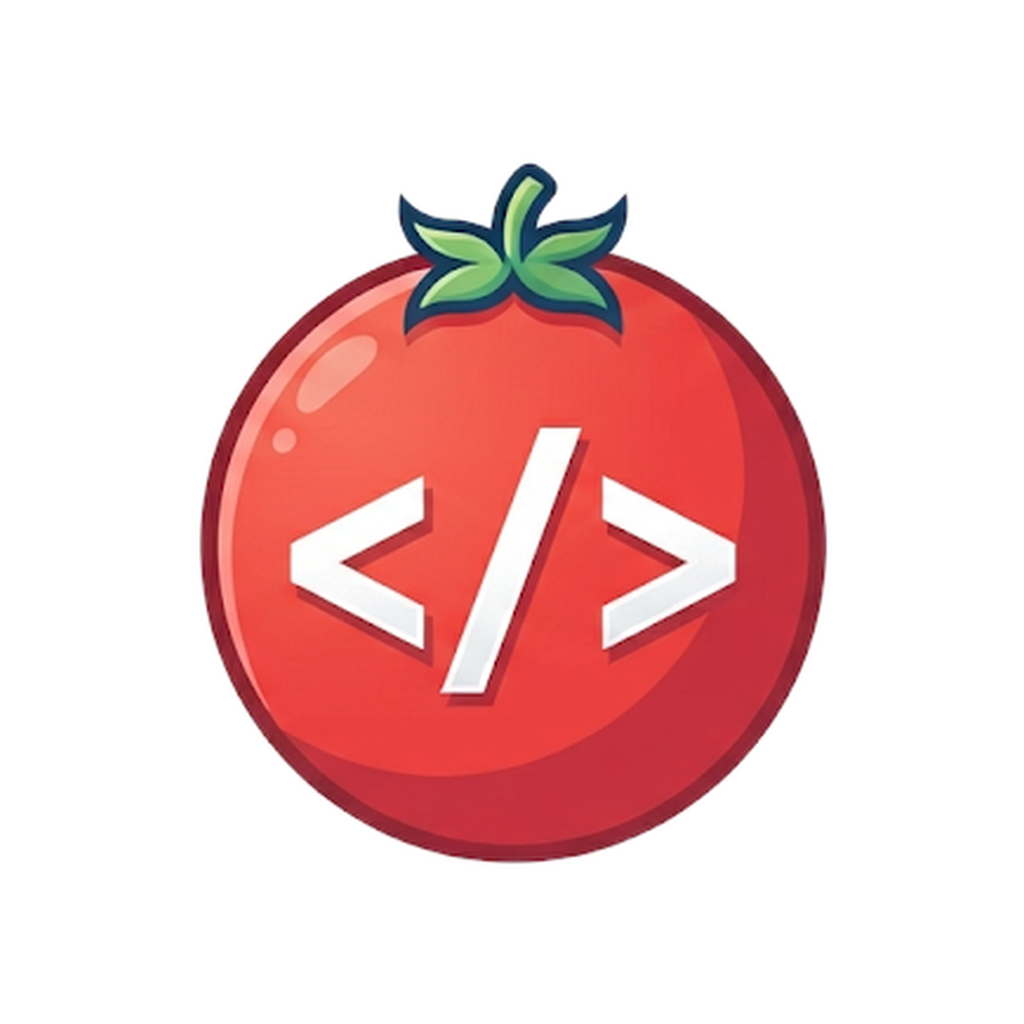
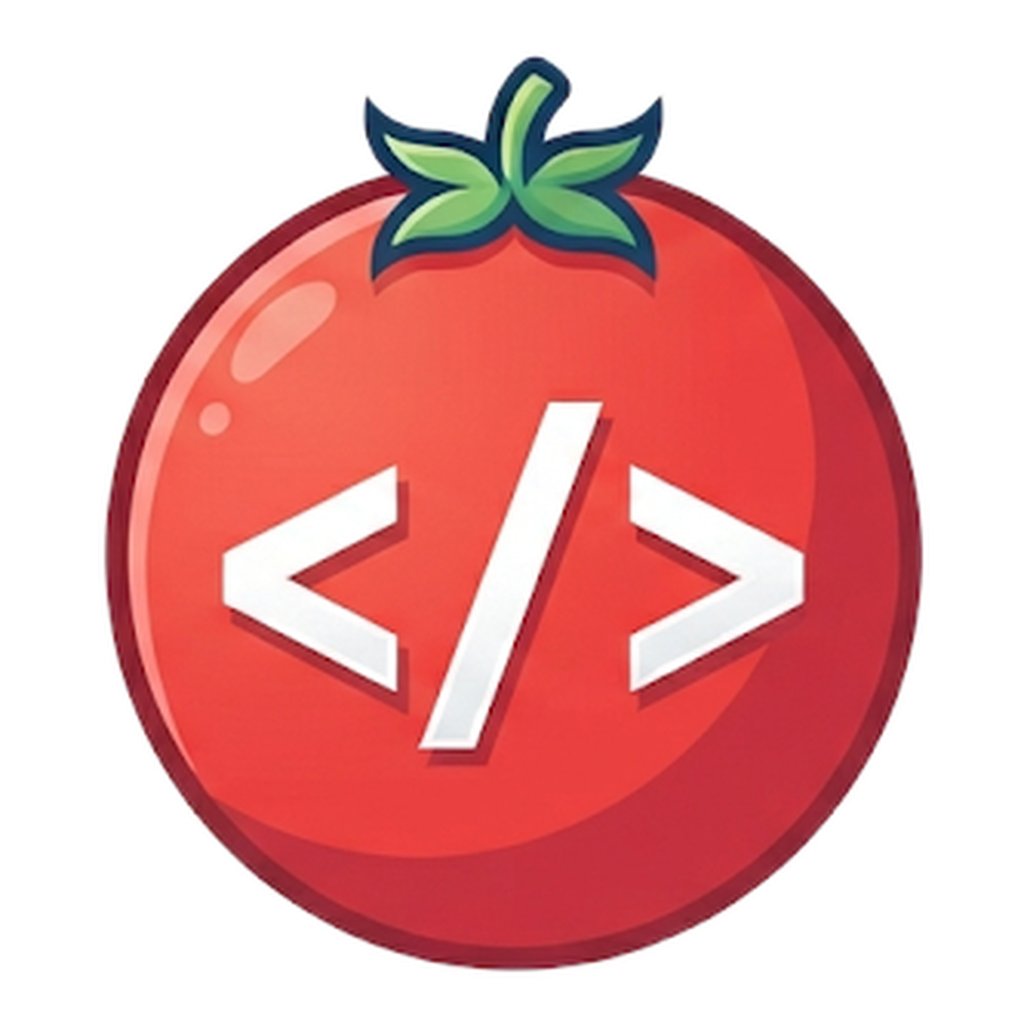
fix(branding): ícone do app enche o quadrado, menos margem branca
Ajustado (Notificações e ícone confirmados funcionando pelo usuário
depois de limpar o cache do Expo Go — o ícone velho ficava em cache
por URL) — pedido: reduzir a borda/margem branca ao redor do tomate.
Aumentado o preenchimento de 72% pra 94% do canvas em icon.png e
favicon.png (a mesma fonte já recortada, só reprocessada com um
fill_ratio maior).

diff --git a/app/(tabs)/settings.tsx b/app/(tabs)/settings.tsx
@@ -5,6 +5,7 @@ import { useSafeAreaInsets } from 'react-native-safe-area-context';
 
 import {
   getNotificationPermissionStatus,
+  isNotificationSupportAvailable,
   requestNotificationPermission,
 } from '../../src/lib/notifications';
 import { NotificationCategory, ThemeOverride, useSettings } from '../../src/lib/settings';
@@ -28,10 +29,12 @@ export default function SettingsScreen() {
   const styles = createStyles(theme);
   const { settings, update } = useSettings();
   const [permissionStatus, setPermissionStatus] = useState<'granted' | 'denied' | 'undetermined' | null>(null);
+  const notificationsSupported = isNotificationSupportAvailable();
 
   useEffect(() => {
+    if (!notificationsSupported) return;
     getNotificationPermissionStatus().then(setPermissionStatus);
-  }, []);
+  }, [notificationsSupported]);
 
   async function handleToggleCategory(key: NotificationCategory, value: boolean) {
     // Só pede a permissão do sistema na hora que a pessoa realmente
@@ -100,52 +103,64 @@ export default function SettingsScreen() {
 
       <Text style={styles.sectionLabel}>Notificações</Text>
       <View style={styles.card}>
-        {permissionStatus === 'denied' && (
+        {!notificationsSupported ? (
           <Text style={styles.warnText}>
-            Permissão de notificação negada pelo sistema. Ative em Ajustes do Android/iOS pra essas opções
-            funcionarem.
+            Notificações (mesmo locais) não funcionam no Android dentro do Expo Go — a partir do SDK 53 a
+            Expo removeu esse suporte de lá; só um build próprio do app (dev build/EAS) habilita isso.
+            Essa seção some assim que o app rodar fora do Expo Go.
           </Text>
-        )}
-        {NOTIFICATION_CATEGORIES.map((cat, i) => (
-          <View key={cat.key}>
-            {i > 0 && <View style={styles.divider} />}
-            <View style={styles.switchRow}>
-              <View style={styles.switchLabel}>
-                <Text style={styles.rowTitle}>{cat.label}</Text>
-                <Text style={styles.rowSubtitle}>{cat.hint}</Text>
+        ) : (
+          <>
+            {permissionStatus === 'denied' && (
+              <Text style={styles.warnText}>
+                Permissão de notificação negada pelo sistema. Ative em Ajustes do Android/iOS pra essas
+                opções funcionarem.
+              </Text>
+            )}
+            {NOTIFICATION_CATEGORIES.map((cat, i) => (
+              <View key={cat.key}>
+                {i > 0 && <View style={styles.divider} />}
+                <View style={styles.switchRow}>
+                  <View style={styles.switchLabel}>
+                    <Text style={styles.rowTitle}>{cat.label}</Text>
+                    <Text style={styles.rowSubtitle}>{cat.hint}</Text>
+                  </View>
+                  <Switch
+                    value={settings.notifications[cat.key]}
+                    onValueChange={(value) => handleToggleCategory(cat.key, value)}
+                    trackColor={{ true: theme.accent, false: theme.border }}
+                  />
+                </View>
               </View>
+            ))}
+            <View style={styles.divider} />
+            <View style={styles.switchRow}>
+              <Text style={[styles.rowTitle, styles.switchLabel]}>Som</Text>
               <Switch
-                value={settings.notifications[cat.key]}
-                onValueChange={(value) => handleToggleCategory(cat.key, value)}
+                value={settings.notificationSound}
+                onValueChange={(value) => update({ notificationSound: value })}
                 trackColor={{ true: theme.accent, false: theme.border }}
               />
             </View>
-          </View>
-        ))}
-        <View style={styles.divider} />
-        <View style={styles.switchRow}>
-          <Text style={[styles.rowTitle, styles.switchLabel]}>Som</Text>
-          <Switch
-            value={settings.notificationSound}
-            onValueChange={(value) => update({ notificationSound: value })}
-            trackColor={{ true: theme.accent, false: theme.border }}
-          />
-        </View>
-        <View style={styles.divider} />
-        <View style={styles.switchRow}>
-          <Text style={[styles.rowTitle, styles.switchLabel]}>Vibração</Text>
-          <Switch
-            value={settings.notificationVibration}
-            onValueChange={(value) => update({ notificationVibration: value })}
-            trackColor={{ true: theme.accent, false: theme.border }}
-          />
-        </View>
+            <View style={styles.divider} />
+            <View style={styles.switchRow}>
+              <Text style={[styles.rowTitle, styles.switchLabel]}>Vibração</Text>
+              <Switch
+                value={settings.notificationVibration}
+                onValueChange={(value) => update({ notificationVibration: value })}
+                trackColor={{ true: theme.accent, false: theme.border }}
+              />
+            </View>
+          </>
+        )}
       </View>
-      <Text style={styles.hintBelow}>
-        {Platform.OS === 'android'
-          ? 'Notificações locais — disparadas pelo próprio app enquanto ele está aberto ou recém-minimizado. Não chegam com o app fechado pelo sistema (isso exigiria um build próprio, fora do Expo Go).'
-          : 'Notificações locais — disparadas pelo próprio app enquanto ele está aberto ou recém-minimizado.'}
-      </Text>
+      {notificationsSupported && (
+        <Text style={styles.hintBelow}>
+          {Platform.OS === 'android'
+            ? 'Notificações locais — disparadas pelo próprio app enquanto ele está aberto ou recém-minimizado. Não chegam com o app fechado pelo sistema (isso exigiria um build próprio, fora do Expo Go).'
+            : 'Notificações locais — disparadas pelo próprio app enquanto ele está aberto ou recém-minimizado.'}
+        </Text>
+      )}
 
       <Text style={styles.sectionLabel}>Sobre</Text>
       <View style={styles.card}>

diff --git a/src/lib/notifications.ts b/src/lib/notifications.ts
@@ -1,29 +1,46 @@
-import * as Notifications from 'expo-notifications';
+import { isRunningInExpoGo } from 'expo';
+import type * as NotificationsType from 'expo-notifications';
 import { AppState, Platform } from 'react-native';
 
 import { AppSettings, NotificationCategory } from './settings';
 
 // Push remoto (servidor mandando notificação de fora) não funciona no
 // Expo Go a partir do SDK 53 (precisa de dev build) — conferido na doc
-// oficial (docs.expo.dev/versions/latest/sdk/notifications.md) antes
-// de implementar, pra não prometer algo que não roda no ambiente de
-// teste atual. Isso aqui é só notificação LOCAL: o próprio app, rodando
-// em primeiro plano (ou recém-voltando dele), dispara a notificação na
-// hora que percebe o evento via SSE — não sobrevive o app sendo morto
-// pelo sistema. Documentar essa limitação é mais importante que fingir
-// que não existe.
-Notifications.setNotificationHandler({
-  handleNotification: async () => ({
-    // Só mostra o alerta/som visualmente quando o app não está em
-    // primeiro plano — em foreground o usuário já está vendo o card
-    // de permissão/a resposta chegando na tela, notificação ali só
-    // duplicaria informação.
-    shouldShowBanner: AppState.currentState !== 'active',
-    shouldShowList: AppState.currentState !== 'active',
-    shouldPlaySound: AppState.currentState !== 'active',
-    shouldSetBadge: false,
-  }),
-});
+// oficial antes de implementar. O que ninguém documenta com a mesma
+// clareza, e só apareceu testando ao vivo: no Android, só de dar
+// `import * as Notifications from 'expo-notifications'` a lib já
+// registra um listener de push token como efeito colateral do próprio
+// import (DevicePushTokenAutoRegistration.fx.js → addPushTokenListener
+// → warnOfExpoGoPushUsage), e isso lança uma exceção SÍNCRONA dentro
+// do Expo Go — derrubando o app inteiro na inicialização, mesmo sem
+// nenhum código nosso chamar API de push. A única forma de evitar é
+// nunca importar o módulo nesse ambiente específico (Android + Expo
+// Go) — daqui pra baixo, tudo é `require()` condicional, não
+// `import` no topo do arquivo.
+const UNAVAILABLE = Platform.OS === 'android' && isRunningInExpoGo();
+
+function loadNotifications(): typeof NotificationsType | null {
+  if (UNAVAILABLE) return null;
+  // eslint-disable-next-line @typescript-eslint/no-var-requires
+  return require('expo-notifications') as typeof NotificationsType;
+}
+
+const Notifications = loadNotifications();
+
+if (Notifications) {
+  Notifications.setNotificationHandler({
+    handleNotification: async () => ({
+      // Só mostra o alerta/som visualmente quando o app não está em
+      // primeiro plano — em foreground o usuário já está vendo o card
+      // de permissão/a resposta chegando na tela, notificação ali só
+      // duplicaria informação.
+      shouldShowBanner: AppState.currentState !== 'active',
+      shouldShowList: AppState.currentState !== 'active',
+      shouldPlaySound: AppState.currentState !== 'active',
+      shouldSetBadge: false,
+    }),
+  });
+}
 
 const CHANNELS: Record<NotificationCategory, { id: string; name: string }> = {
   agentDone: { id: 'agent-done', name: 'Respostas do agente' },
@@ -31,7 +48,15 @@ const CHANNELS: Record<NotificationCategory, { id: string; name: string }> = {
   errors: { id: 'errors', name: 'Erros' },
 };
 
+// `false` aqui não significa "negada pelo sistema" — pode ser porque a
+// plataforma nem suporta (Android + Expo Go). A tela de Configurações
+// usa isso pra saber se deve mostrar os toggles ou um aviso.
+export function isNotificationSupportAvailable(): boolean {
+  return Notifications !== null;
+}
+
 export async function requestNotificationPermission(): Promise<boolean> {
+  if (!Notifications) return false;
   const current = await Notifications.getPermissionsAsync();
   if (current.granted) return true;
   const result = await Notifications.requestPermissionsAsync();
@@ -39,6 +64,7 @@ export async function requestNotificationPermission(): Promise<boolean> {
 }
 
 export async function getNotificationPermissionStatus(): Promise<'granted' | 'denied' | 'undetermined'> {
+  if (!Notifications) return 'denied';
   const result = await Notifications.getPermissionsAsync();
   if (result.granted) return 'granted';
   return result.canAskAgain ? 'undetermined' : 'denied';
@@ -51,7 +77,7 @@ export async function getNotificationPermissionStatus(): Promise<'granted' | 'de
 // duplica). No iOS não existe o conceito de canal — o som já vem do
 // campo `sound` de cada notificação individual.
 export async function syncNotificationChannels(settings: AppSettings): Promise<void> {
-  if (Platform.OS !== 'android') return;
+  if (!Notifications || Platform.OS !== 'android') return;
   for (const { id, name } of Object.values(CHANNELS)) {
     await Notifications.setNotificationChannelAsync(id, {
       name,
@@ -64,6 +90,7 @@ export async function syncNotificationChannels(settings: AppSettings): Promise<v
 }
 
 async function notify(category: NotificationCategory, settings: AppSettings, title: string, body: string) {
+  if (!Notifications) return;
   if (!settings.notifications[category]) return;
   const granted = await getNotificationPermissionStatus();
   if (granted !== 'granted') return;
